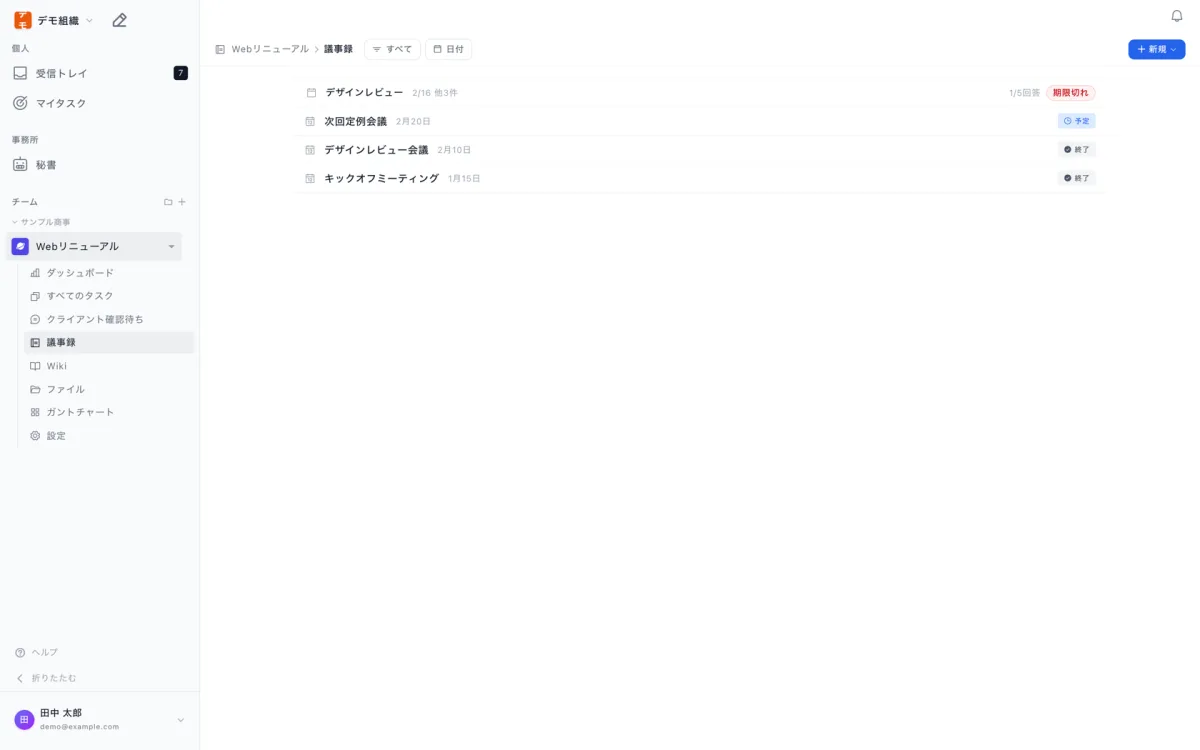
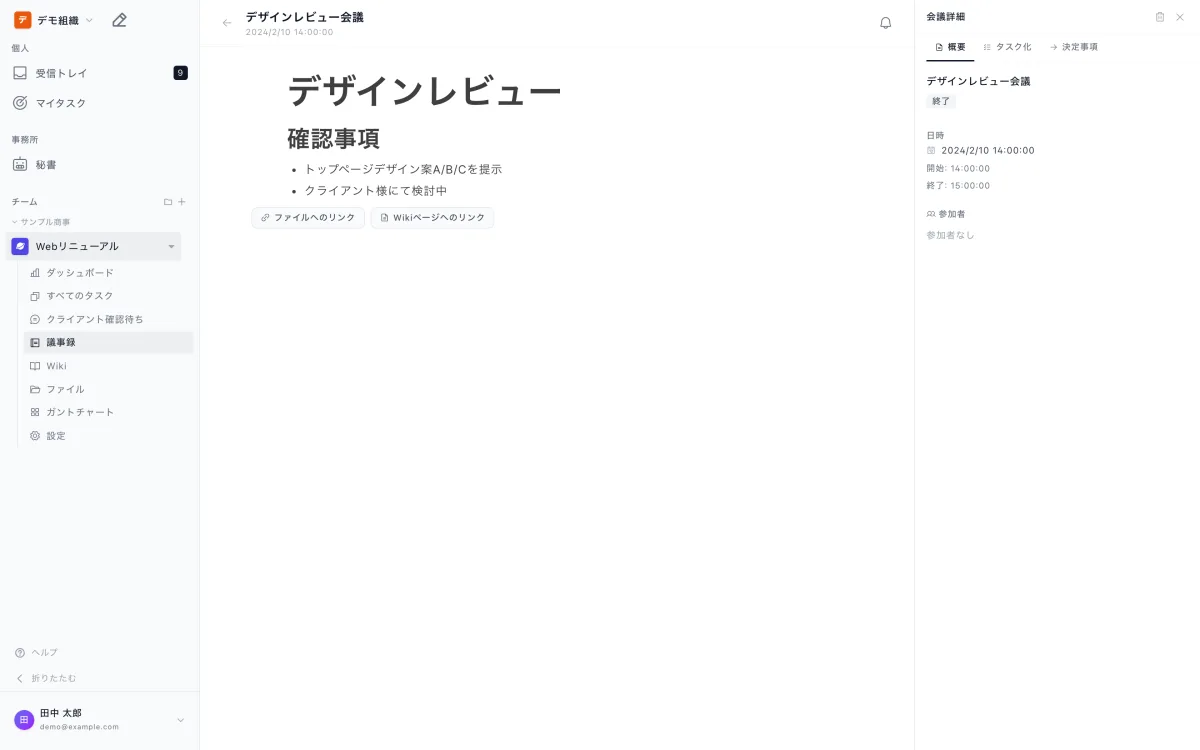
docs(manual): 議事録の説明と画面写真を、新しい編集画面に合わせて更新
#854 で議事録が「右の細いパネルに生の文字」から「画面の中央で編集する」形に変わったため、
マニュアルの説明と写真が実物と食い違っていた。

- 画面写真を撮り直し（`public/img/help/meetings.webp`）。中央に議事録が開き、右に
  「概要／タスク化／決定事項」のタブが出る、いまの画面
- 会議インスペクターの説明を修正。「議事録タブ」は無くなり「タスク化タブ」になった
  （本文は中央の編集画面で読み書きする）
- 「議事録の書き方」の節を新設: 保存ボタンが無く自動保存されること、会議の前から
  書けること、書けるのは社内の管理者・編集者で閲覧者は読むだけ、ファイル／Wiki への
  リンクを差し込めること、一覧に戻るときの書きかけの確認
- 「書き換えがぶつかったとき」を追記。AI秘書や他の人が先に書き換えると上書きは止まるので、
  「書きかけをコピー」→「最新を読み込む」→貼り直す、の順で進める
- SPEC 記法によるタスク化の説明は「議事録からタスクを作る」として維持

写真は本番のデモ組織のデータを、手元の本番ビルド（まだ本番に出ていないため）で撮影。
左メニューに出る実在の相手先名は、撮影時に画面の文字だけサンプル名へ差し替えている。

diff --git a/docs/manual/internal/meetings.md b/docs/manual/internal/meetings.md
@@ -2,7 +2,7 @@
 
 AgentPM の会議管理機能について説明します。会議の作成・進行・記録を一元管理し、決定事項をタスクとして自動追跡します。
 
-![議事録。会議の記録と、そこから作ったタスクがつながります。](/img/help/meetings.webp)
+![議事録の画面。会議を選ぶと中央に議事録が開き、その場で書けます。](/img/help/meetings.webp)
 
 
 ---
@@ -77,7 +77,8 @@ AgentPM の会議管理機能について説明します。会議の作成・進
 
 ## 会議インスペクター
 
-会議をクリックすると右ペインにインスペクターが表示されます。3つのタブがあります。
+会議をクリックすると、**画面の中央に議事録が開き**、右側にインスペクターが出ます。
+インスペクターのタブは「概要」「タスク化」「決定事項」の3つです。
 
 ### 概要タブ
 
@@ -88,10 +89,10 @@ AgentPM の会議管理機能について説明します。会議の作成・進
 - 参加者リスト（外部 / 社内に分類）
 - アクションボタン（開始 / 終了）
 
-### 議事録タブ
+### タスク化タブ
 
-- Markdown 形式の議事録を表示します
-- 議事録が未入力の場合は「議事録はありません」と表示されます
+- 議事録の中の `SPEC(...)` 記法の行から、**タスクにできる候補**を出します（→ 後述の「議事録の書き方」）
+- 議事録の本文そのものは、中央の編集画面で読み書きします（このタブには本文は出ません）
 
 ### 決定事項タブ
 
@@ -149,11 +150,28 @@ AgentPM の会議管理機能について説明します。会議の作成・進
 
 ---
 
-## 議事録機能
+## 議事録の書き方
 
-### Markdown 形式での記入
+会議を選ぶと、**画面の中央に議事録が開きます**。Wiki と同じ編集画面なので、書き味も同じです。
 
-議事録は Markdown 形式で記入します。通常のテキストに加え、特別な記法でタスクを自動生成できます。
+- **保存ボタンはありません。**書いている途中で自動的に保存されます（書いている間、画面に「保存中…」「保存済み」と出ます）
+- **会議の前から書けます。**「予定」の会議でも開いて、決めたいこと・進め方を先に書いておけます
+- 書けるのは**社内の管理者・編集者**です。閲覧だけの方には**読むだけ**の表示になります
+- 編集画面の下のボタンから、**ファイルへのリンク**と **Wiki ページへのリンク**を差し込めます
+- 一覧に戻るときは「**会議一覧へ戻る**」。保存されていない書きかけがあると、その旨の確認が出ます
+
+### 書き換えがぶつかったとき
+
+AI秘書や他のメンバーが先に同じ議事録を書き換えると、**「別の場所で更新されています」**と出て、
+上書きは止まります。その場合は次の順で進めてください。
+
+1. 「**書きかけをコピー**」で、自分が書いた分を控える
+2. 「**最新を読み込む**」を押す（この画面の書きかけは消えます）
+3. 控えた内容を、必要な場所に貼り直す
+
+---
+
+## 議事録からタスクを作る
 
 ### SPEC 記法によるタスク自動生成
 
